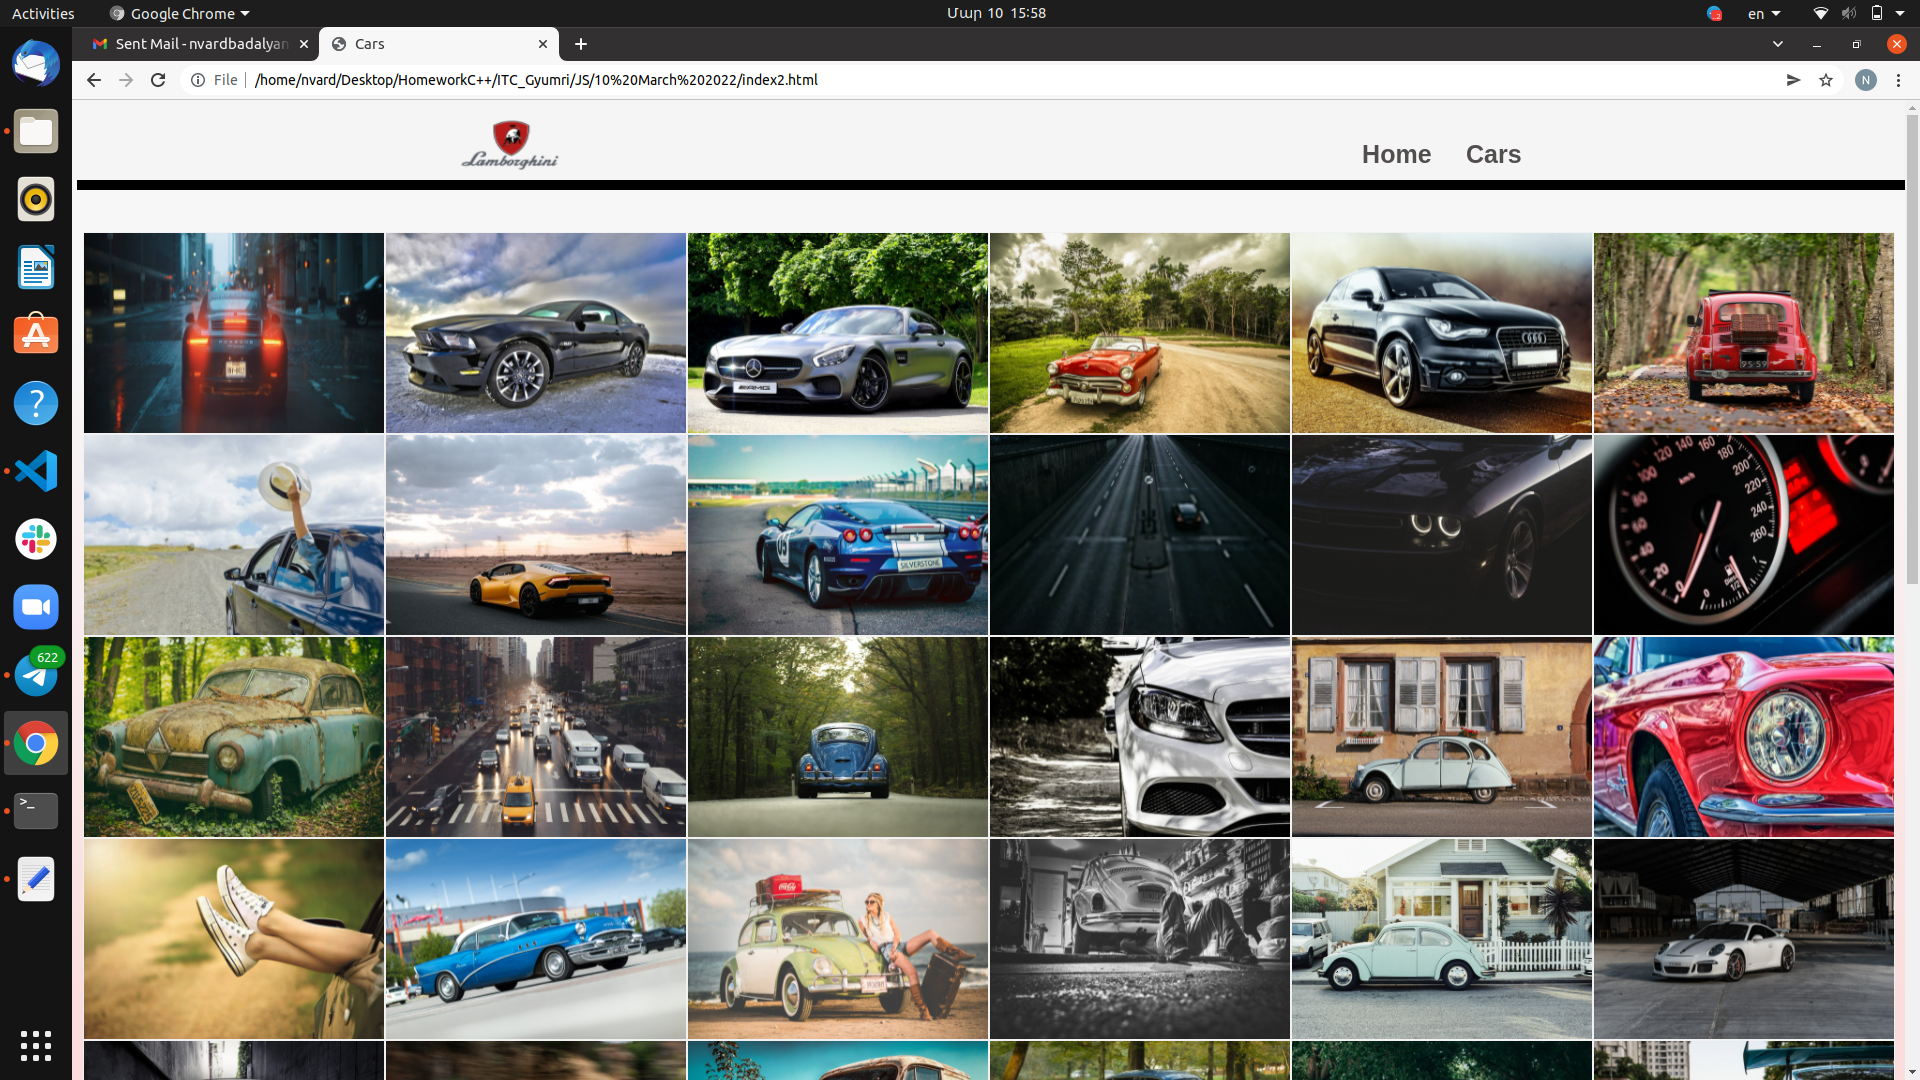
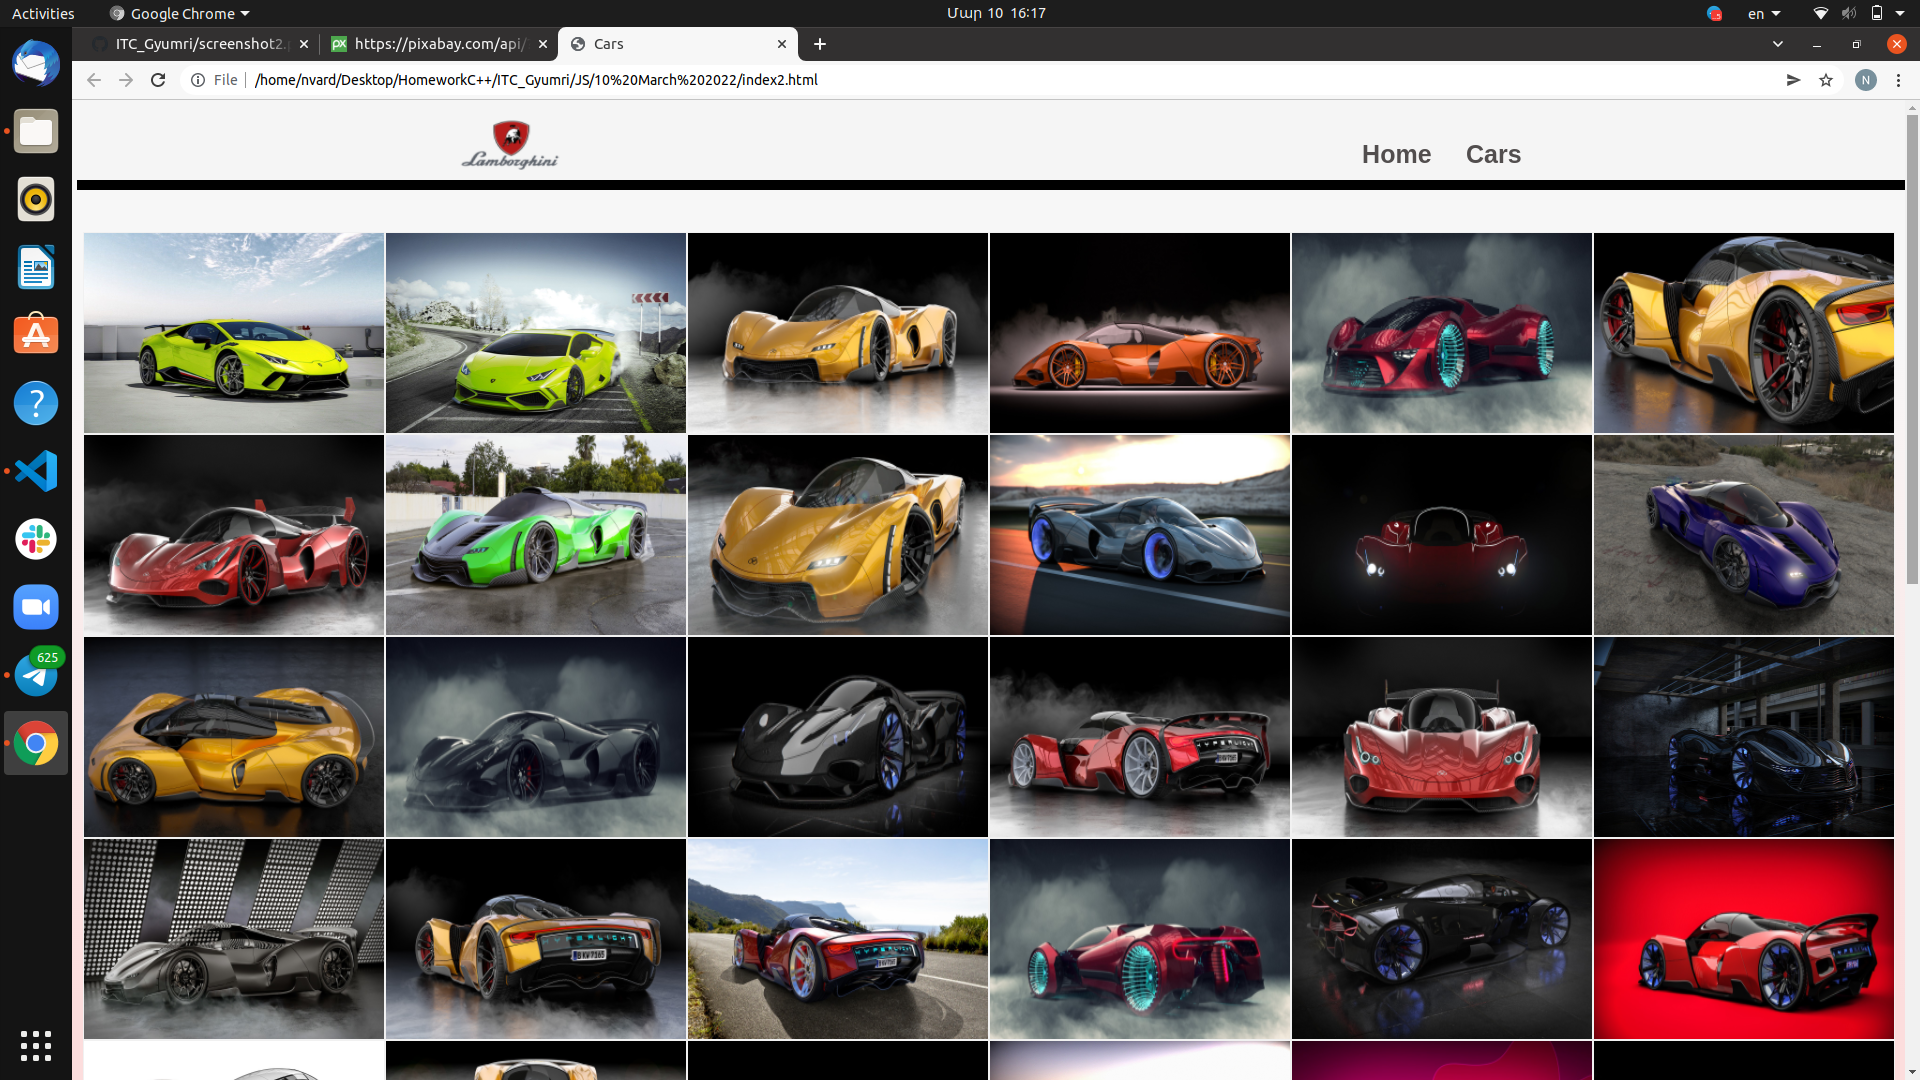
Image generator

diff --git a/JS/10 March 2022/script.js b/JS/10 March 2022/script.js
@@ -1,6 +1,6 @@
 let wrap = document.getElementById("wrap")
 
-fetch("https://pixabay.com/api/?key=26064067-98f00b9c93709870db9008ce6&q=car&image_type=photo&per_page=50")
+fetch("https://pixabay.com/api/?key=26064067-98f00b9c93709870db9008ce6&q=lamborgini&image_type=photo&per_page=50")
     .then(res => { return res.json() })
     .then(res => {
         for (let i = 0; i < 50; i++) {
